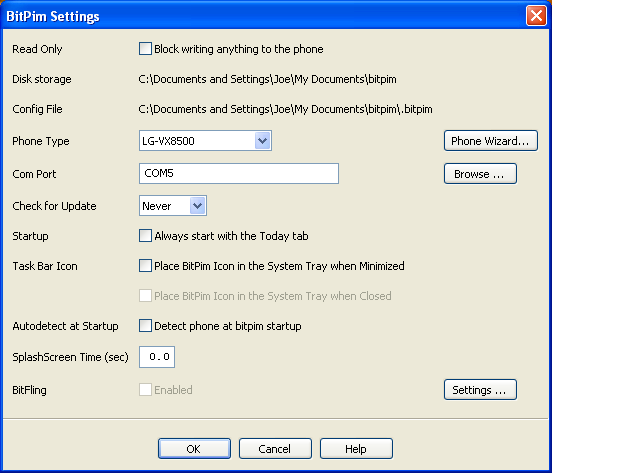
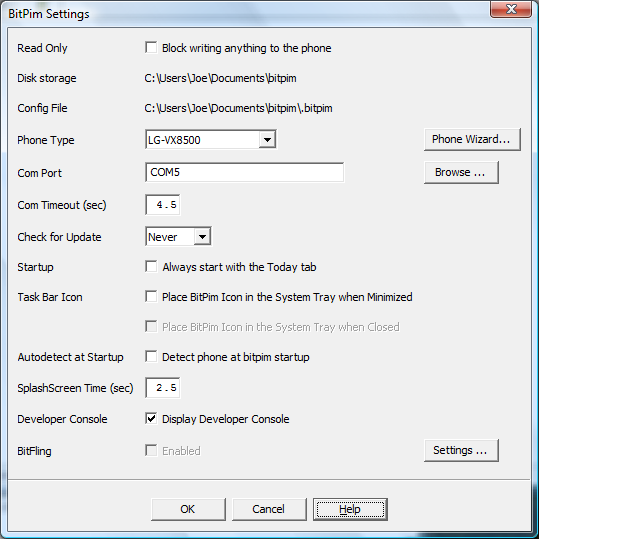
Improvement: added com timeout setting
git-svn-id: svn://svn.code.sf.net/p/bitpim/code/trunk/bitpim@4390 4404a10c-ff0d-0410-9031-a1dde6cb222d

Changed region(s): [[0.0, 0.0, 0.875, 1.0]]

diff --git a/src/guiwidgets.py b/src/guiwidgets.py
@@ -423,6 +423,14 @@ class ConfigDialog(wx.Dialog):
         gs.Add( self.commbox, pos=(_row,1), flag=wx.ALIGN_CENTER_VERTICAL)
         gs.Add( wx.Button(self, self.ID_COMBROWSE, "Browse ..."), pos=(_row,2), flag=wx.ALIGN_CENTER_VERTICAL)
         _row+=1
+        # com timeout
+        gs.Add(wx.StaticText(self, -1, 'Com Timeout (sec)'), pos=(_row, 0),
+               flag=wx.ALIGN_CENTER_VERTICAL)
+        self.commtimeout=NumCtrl(self, -1,
+                                 integerWidth=2, fractionWidth=1,
+                                 allowNegative=False)
+        gs.Add(self.commtimeout, pos=(_row, 1), flag=wx.ALIGN_CENTER_VERTICAL)
+        _row+=1
 
         # Automatic check for update
         gs.Add(wx.StaticText(self, -1, 'Check for Update'), pos=(_row,0), flag=wx.ALIGN_CENTER_VERTICAL)
@@ -636,6 +644,7 @@ class ConfigDialog(wx.Dialog):
     def setfromconfig(self):
         if len(self.mw.config.Read("lgvx4400port")):
             self.commbox.SetValue(self.mw.config.Read("lgvx4400port", ""))
+        self.commtimeout.SetValue(self.mw.config.ReadFloat('commtimeout', 3.0))
         if self.mw.config.Read("phonetype", "") in self.phonemodels:
             self.phonebox.SetValue(self.mw.config.Read("phonetype"))
         if self.bitflingenabled is not None:
@@ -669,12 +678,14 @@ class ConfigDialog(wx.Dialog):
         self.mw.configpath=path
         self.mw.commportsetting=str(self.commbox.GetValue())
         self.mw.config.Write("lgvx4400port", self.mw.commportsetting)
+        self.mw.config.WriteFloat('commtimeout',
+                                  float(self.commtimeout.GetValue()))
         if self.mw.wt is not None:
             self.mw.wt.clearcomm()
         # comm parameters (retry, timeouts, flow control etc)
         commparm={}
         commparm['retryontimeout']=self.mw.config.ReadInt("commretryontimeout", False)
-        commparm['timeout']=self.mw.config.ReadInt('commtimeout', 3)
+        commparm['timeout']=self.mw.config.ReadFloat('commtimeout', 3.0)
         commparm['hardwareflow']=self.mw.config.ReadInt('commhardwareflow', False)
         commparm['softwareflow']=self.mw.config.ReadInt('commsoftwareflow', False)
         commparm['baud']=self.mw.config.ReadInt('commbaud', 115200)

diff --git a/src/filesystem.py b/src/filesystem.py
@@ -25,7 +25,6 @@ import types
 import datetime
 import sha
 import codecs
-##import locale
 import fileview
 import widgets
 

diff --git a/src/gui.py b/src/gui.py
@@ -25,7 +25,6 @@ import types
 import datetime
 import sha
 import codecs
-##import locale
 
 # wx modules
 import wx

diff --git a/src/phone_root.py b/src/phone_root.py
@@ -23,7 +23,6 @@ import types
 import datetime
 import sha
 import codecs
-##import locale
 
 # wx modules
 import wx
